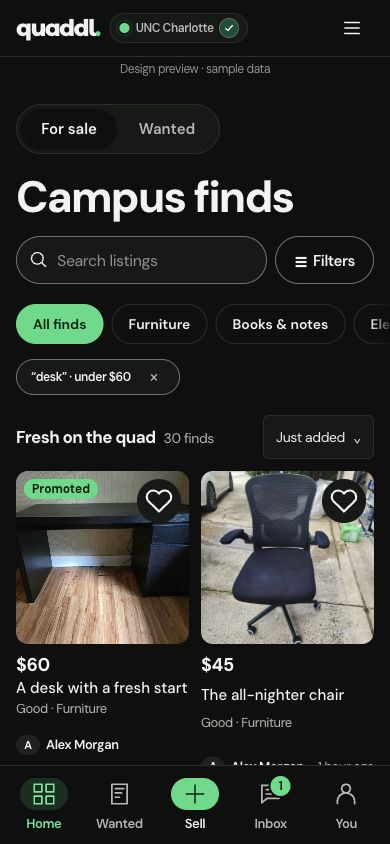
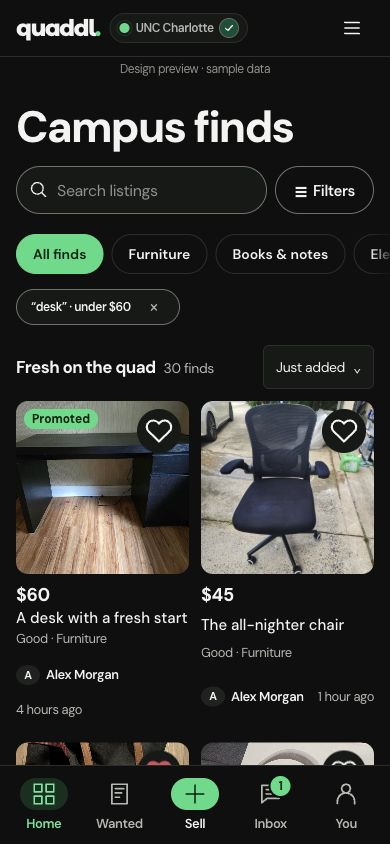
Refresh showcase for current Quaddl layouts

diff --git a/README.md b/README.md
@@ -33,6 +33,10 @@ Search and filters sit just above the listing grid on the website. The mobile fe
 
 ![Website screenshot gallery GIF](media/website-gallery-nov26.gif)
 
+### Phone website
+
+<img src="media/phone-web-marketplace-nov26.jpg" alt="Phone website marketplace with search, filters, and bottom navigation" width="260" />
+
 ### Mobile app
 
 The app shares the website’s fonts and campus colors, but I didn’t want it to feel like the desktop site squeezed into a phone.
